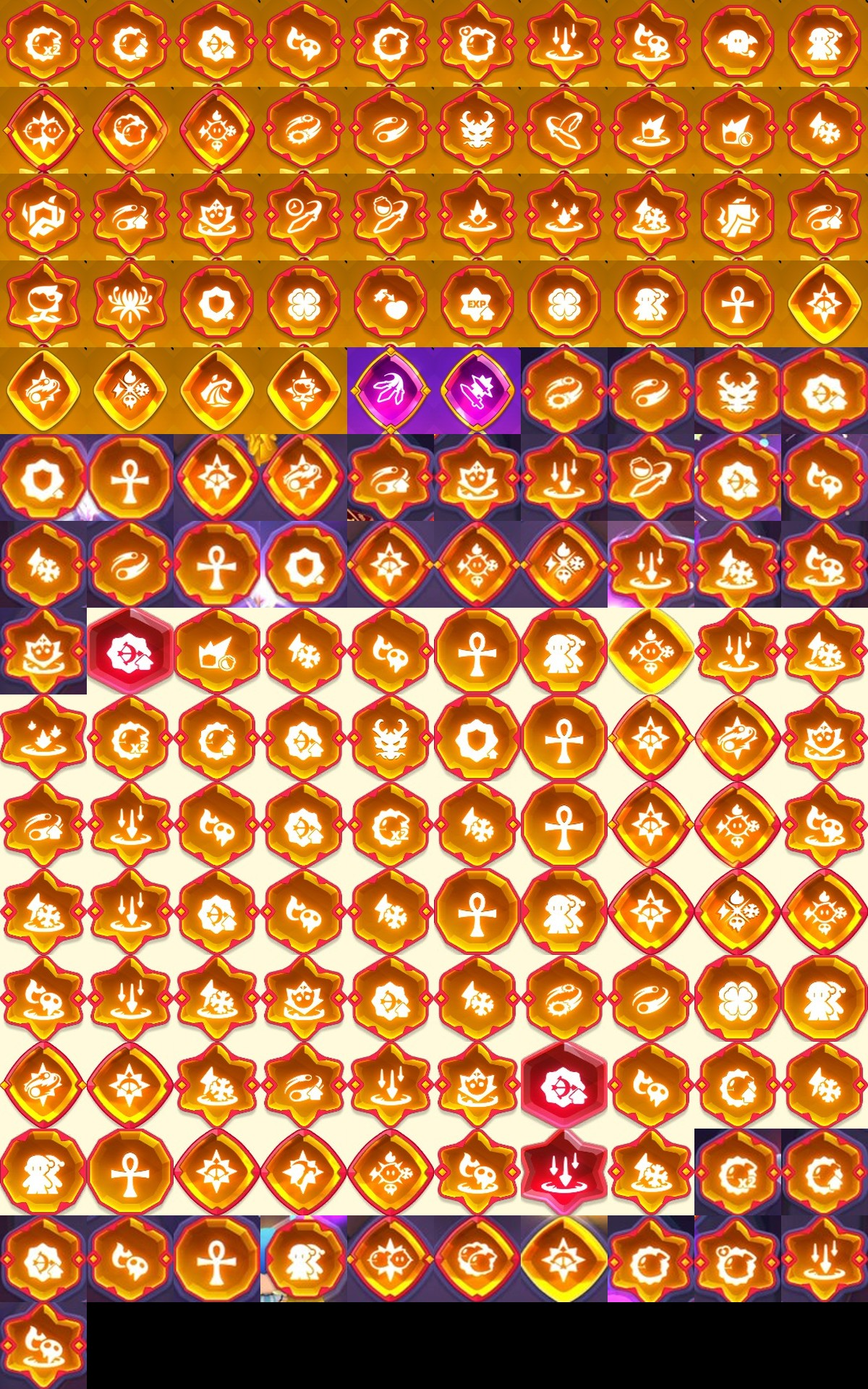
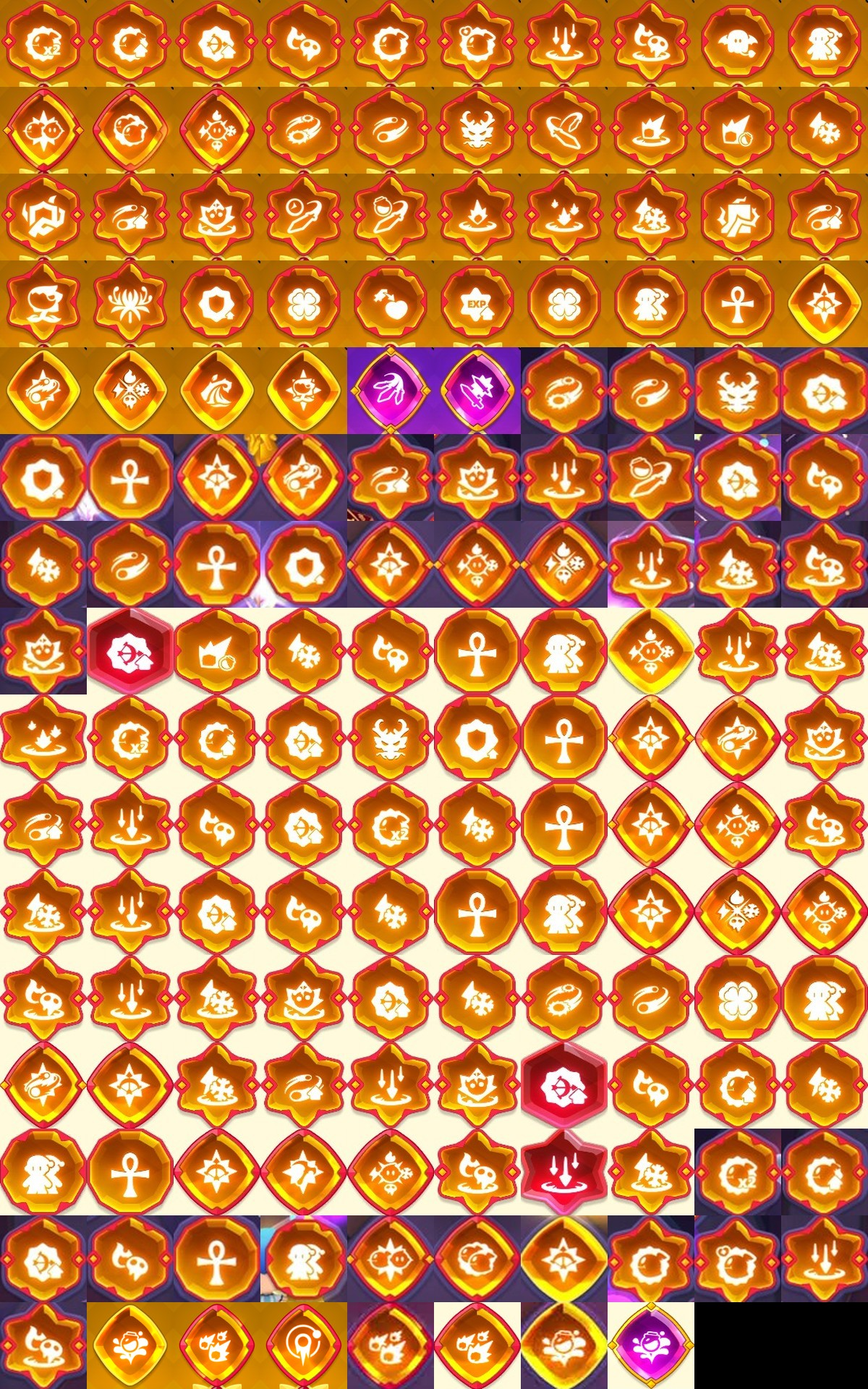
Runes: Meteor Split, Potion Spring, Orbital Orb references; sprite rule
- popups from Daby plus 4 small icons from real screens (46 of 47 runes now; Echo Scythe still missing)
- Melee/Healing Sprite: two sprite icons = both equipped; one = Healing Sprite (per Daby)
- new video's 7 Runes screens: 87 of 91 read, none wrong

Claude-Session: https://claude.ai/code/session_01XwLxWVqZwz362d3f52mYtT

Changed region(s): [[0.0925, 0.9375, 0.8017, 1.0]]

diff --git a/app/index.html b/app/index.html
@@ -3197,6 +3197,14 @@ body.env-staging .envbar { display: block; }
         slots[k] = { type, name: pick.name, q: runeTier(img, raw[k].b), score: Math.round(pick.s * 100) / 100, guess: pick.name, box: raw[k].b };
       });
     }
+    // Melee Sprite and Healing Sprite look almost the same at this size (per Daby): two sprite icons means both are
+    // equipped (the better-scoring way round), one sprite icon is taken to be Healing Sprite.
+    const PAIR = ["Melee Sprite", "Healing Sprite"];
+    const sc = (k, n) => (raw[k].cand.find(c => c.name === n) || { s: 0 }).s;
+    const sprites = raw.map((r, k) => k).filter(k => raw[k].type === "ability" && (PAIR.includes(slots[k].name) || (!slots[k].name && PAIR.includes(raw[k].cand[0]?.name) && raw[k].cand[0].s >= 0.6)));
+    const setS = (k, n) => { slots[k] = { type: "ability", name: n, q: runeTier(img, raw[k].b), score: Math.round(sc(k, n) * 100) / 100, guess: n, box: raw[k].b, sprite: true }; };
+    if (sprites.length === 1) setS(sprites[0], "Healing Sprite");
+    else if (sprites.length === 2) { const [a, b] = sprites; if (sc(a, PAIR[0]) + sc(b, PAIR[1]) >= sc(a, PAIR[1]) + sc(b, PAIR[0])) { setS(a, PAIR[0]); setS(b, PAIR[1]); } else { setS(a, PAIR[1]); setS(b, PAIR[0]); } }
     return { layout: best.name, slots };
   }
   function runeColorShare(img, b) {   // share of strongly colored pixels: an empty slot is pale

diff --git a/tests/runes.py b/tests/runes.py
@@ -3,7 +3,7 @@ HERE = _os.path.dirname(_os.path.abspath(__file__))
 APP = _os.path.join(HERE, "..", "app")
 FIX = _os.path.join(HERE, "fixtures", "runes")
 # Rune icons matched on the device against rune-refs.jpg. Expected names checked by eye against the screenshots
-# (None = should stay blank: a rune with no reference yet, or too close to call).
+# A lone sprite icon counts as Healing Sprite (per Daby); Meteor Split, Potion Spring and Orbital Orb identified from his popups.
 import asyncio, threading, http.server, functools, base64
 from playwright.async_api import async_playwright
 srv = http.server.ThreadingHTTPServer(("127.0.0.1", 8798), functools.partial(http.server.SimpleHTTPRequestHandler, directory=APP))
@@ -12,20 +12,20 @@ MOCK = open(_os.path.join(HERE, "mock.js")).read()
 res = []
 def check(n, c, x=""): res.append(c); print("PASS" if c else "FAIL", n, x)
 EXPECT = {
-  "preset-hago26.png": ("preset", ["Sharp Arrow", "Giant Meteor", "Sprite Link", "Sprite Multishot", "Revive", "Lucky Shadow", "Arrow of Echoes", "Sprite's Awe", None,
+  "preset-hago26.png": ("preset", ["Sharp Arrow", "Giant Meteor", "Sprite Link", "Sprite Multishot", "Revive", "Lucky Shadow", "Arrow of Echoes", "Sprite's Awe", "Meteor Split",
                                    "Melee Sprite", "Arrow Rain", "Healing Sprite", "Star of Fury"]),
   "preset-silverscope.png": ("preset", ["Frostshock Seal", "Sharp Arrow", "Sawblade Circle", "Spin SPD Up", "Revive", "Guardian", "Arrow of Echoes", "Pulsing Orb", "Elemental Crit",
                                         "Frostshock Touch", "Arrow Rain", "Ring of Agony", "Circle"]),
   "profile-daybee-small.jpg": ("profile", ["Sprite Multishot", "Sprite Link", "Sharp Arrow", "Flamenox Seal", "Revive", "Lucky Shadow", "Sprite Assist", "Sprite's Awe", "Arrow of Echoes",
                                            "Melee Sprite", "Healing Sprite", "Arrow Rain", "Flamenox Touch"]),
   # other players' profiles from the pilot video (blue window, character and glow in front of some runes); not used as references
-  "profile-video-12.jpg": ("profile", ["Dragonflight Sword", "Sawblade Circle", "Potion Magnet", "Spin SPD Up", "Revive", "Lucky Shadow", "Pulsing Orb", None, "Swordstrike Aerie",
+  "profile-video-12.jpg": ("profile", ["Dragonflight Sword", "Sawblade Circle", "Potion Magnet", "Spin SPD Up", "Revive", "Lucky Shadow", "Pulsing Orb", "Orbital Orb", "Swordstrike Aerie",
                                        "Circle", "Ring of Agony", "Sword of Time", "Arrow Rain"]),
   "profile-video-27.jpg": ("profile", ["Sharp Arrow", "Frostshock Seal", "Potion Magnet", "Flamenox Seal", "Revive", "Lucky Shadow", "Arrow of Echoes", "Elemental Crit", "Sprite's Awe",
-                                       None, "Arrow Rain", "Flamenox Touch", "Frostshock Touch"]),
+                                       "Healing Sprite", "Arrow Rain", "Flamenox Touch", "Frostshock Touch"]),
   "profile-video-35.jpg": ("profile", ["Sharp Arrow", "Sprite Link", "Potion Magnet", "Sprite Multishot", "Intelligence", "Rabbit's Foot", "Arrow of Echoes", "Sprite's Awe", "Sprite Assist",
                                        "Arrow Rain", "Ring of Agony", "Melee Sprite", "Healing Sprite"]),
-  "profile-video-45.jpg": ("profile", ["Sharp Arrow", "Potion Magnet", "Frostshock Seal", "Sprite Multishot", "Revive", "Guardian", None, "Sprite's Awe", "Arrow of Echoes",
+  "profile-video-45.jpg": ("profile", ["Sharp Arrow", "Potion Magnet", "Frostshock Seal", "Sprite Multishot", "Revive", "Guardian", "Potion Spring", "Sprite's Awe", "Arrow of Echoes",
                                        "Arrow Rain", "Melee Sprite", "Frostshock Touch", "Healing Sprite"]),
 }
 async def main():

diff --git a/tools/runes/README.md b/tools/runes/README.md
@@ -5,8 +5,8 @@ cell and its type. The page matches rune icons against these on the device (see 
 
 Made from Daby's recordings of rune popups (Nov 23, 2026): 46 icons covering 43 runes, plus 105 small icons cut
 from real profile Runes and Team Info preset screens (each checked by eye), so matching works at the size runes
-actually appear, on Mythic red frames, and behind some glow. Cells marked `small: true` in the JSON are those. Still missing (no reference,
-so they always stay blank): Potion Spring, Orbital Orb, Meteor Split, Echo Scythe (all Etched).
+actually appear, on Mythic red frames, and behind some glow. Cells marked `small: true` in the JSON are those. Potion Spring, Meteor Split and Orbital Orb
+were added Nov 24 (popups plus 4 small icons). Still missing (always blank): Echo Scythe (Etched).
 
 Scripts (Python prototypes, paths point at the original frame folders):
 - `find_icon.py`: finds the icon tile in a popup screenshot.
@@ -18,3 +18,6 @@ To add a rune: crop its popup icon the same way, append the cell to the grid and
 Matching rules (in the page): a name needs a score of at least 0.6, names for each type are chosen together
 (each rune once, scored against leaving the slot blank), and a slot keeps its name only if any other choice
 costs at least 0.05. Otherwise it stays blank.
+
+Sprite rule (per Daby): Melee Sprite and Healing Sprite are nearly identical at screen size. Two sprite icons on
+one screen are both equipped (named the better-scoring way round); a single sprite icon is taken as Healing Sprite.
